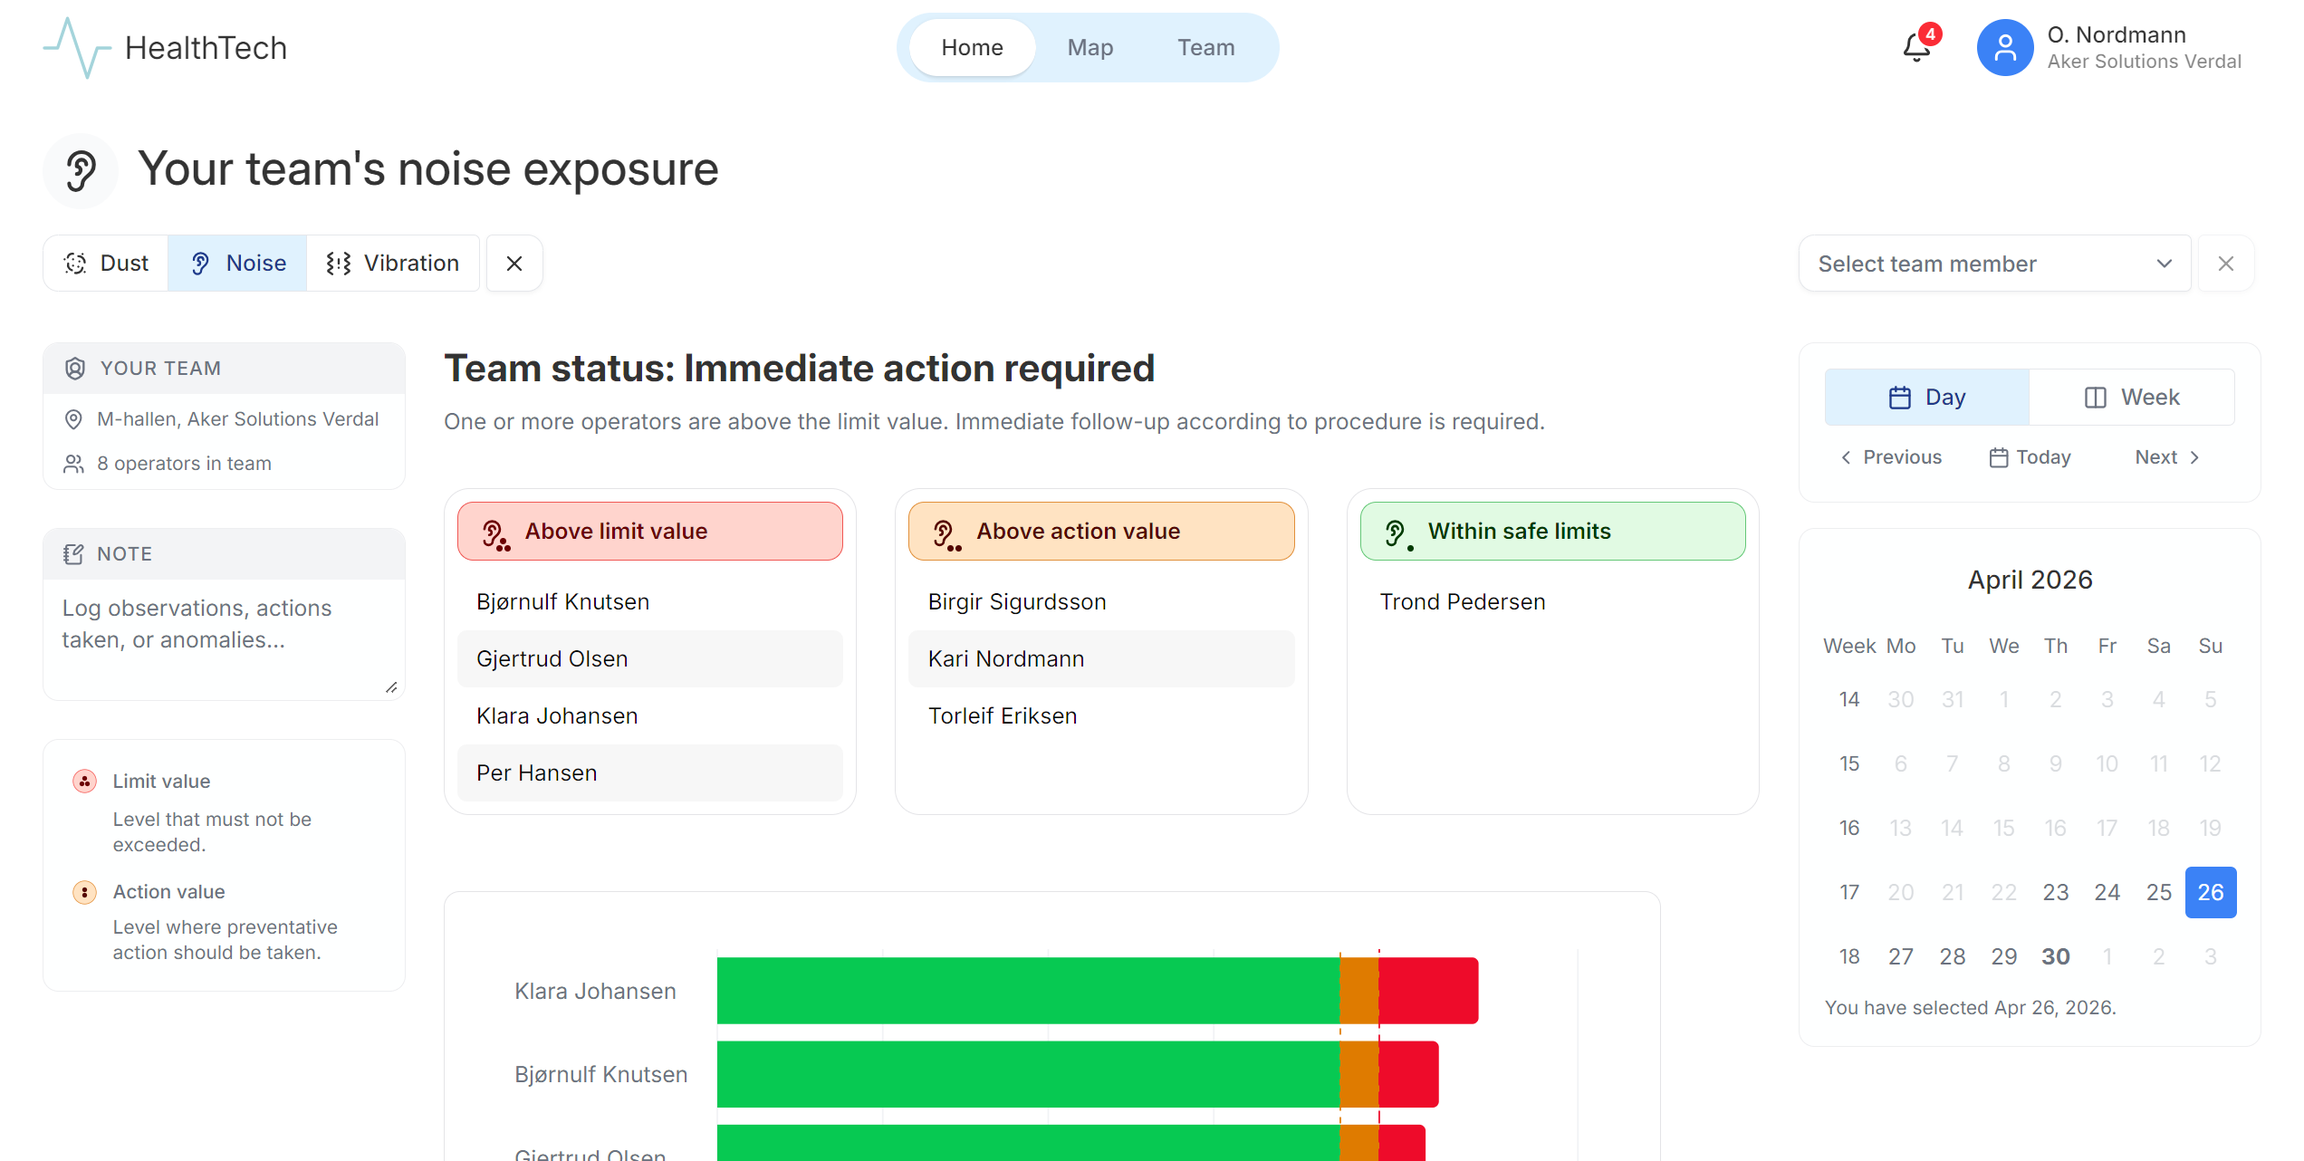
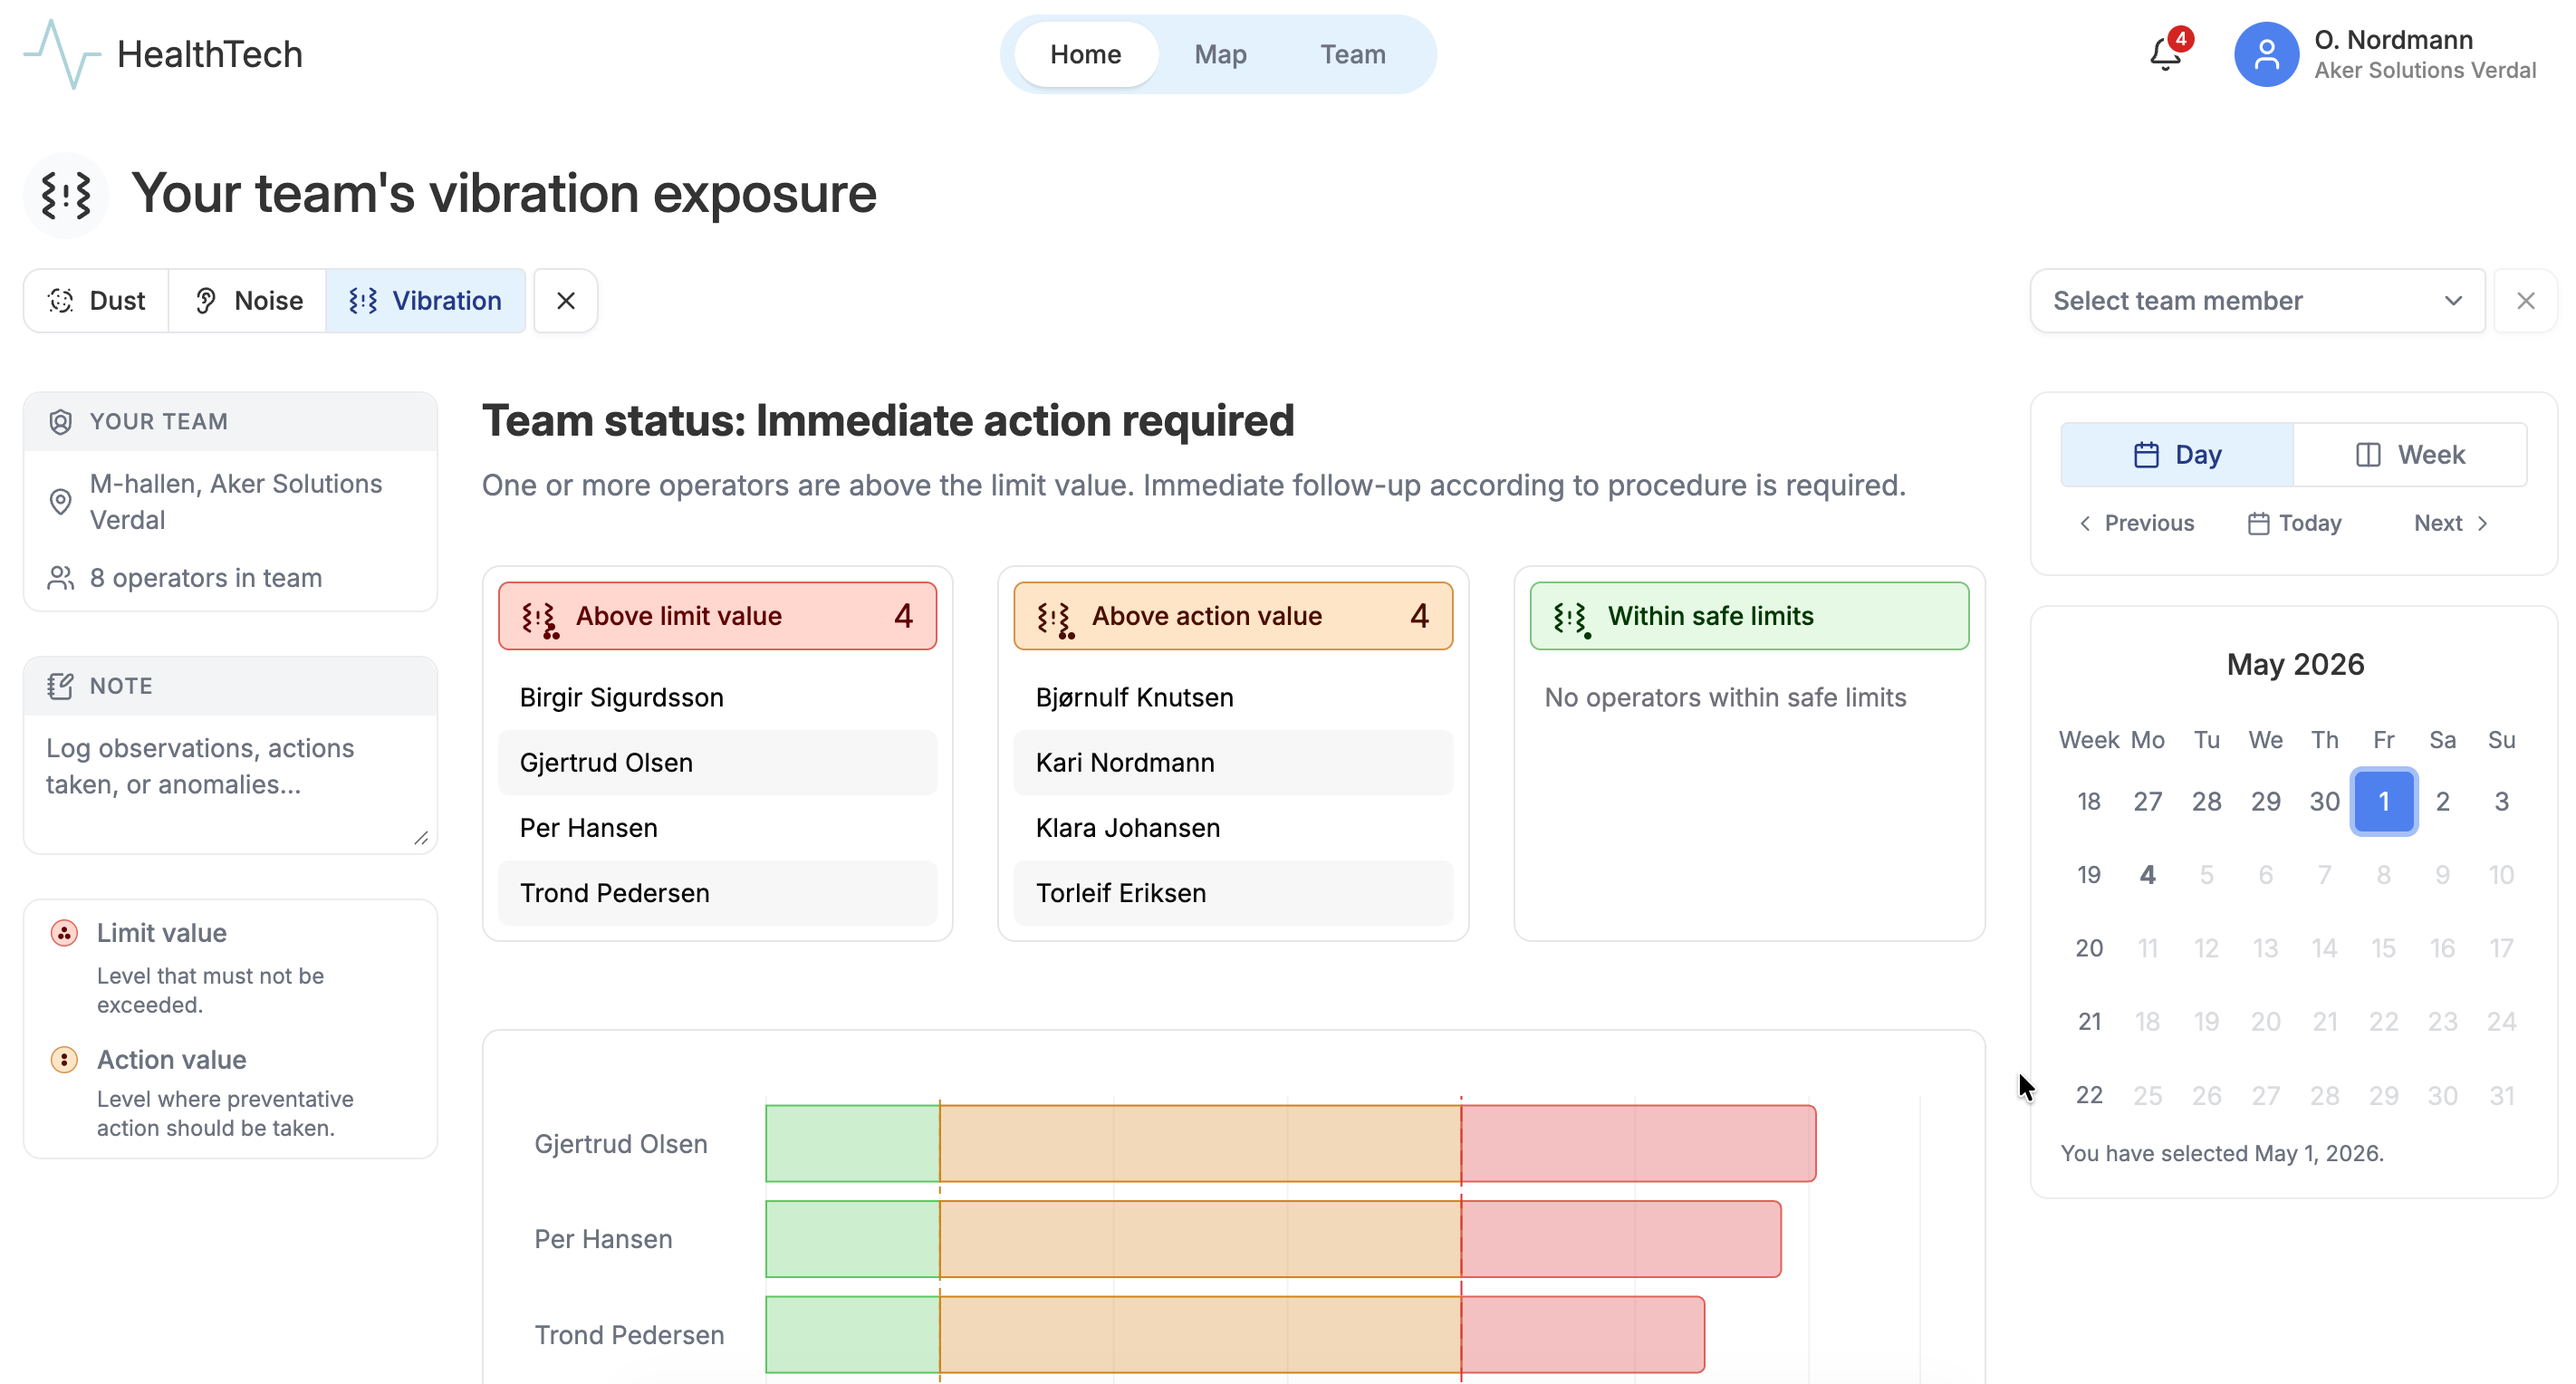
chore: update readme images

diff --git a/README.md b/README.md
@@ -12,7 +12,7 @@ HealthTech is a Bachelor's thesis project for Aker Solutions. This is the second
     <td align="center" width="50%">
       <img src="./assets/showcase/foreman-team-noise.png" alt="Foreman noise data for team" width="100%" />
       <br />
-      <sub>A foreman's noise data for their team</sub>
+      <sub>A foreman's vibration data for their team</sub>
     </td>
   </tr>
   <tr>
